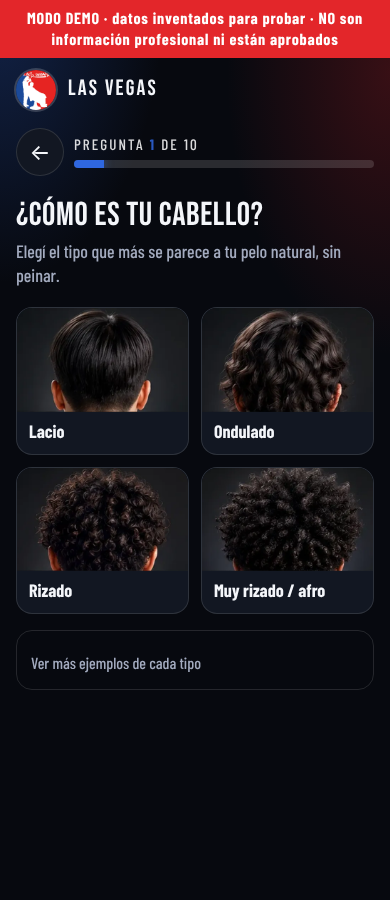
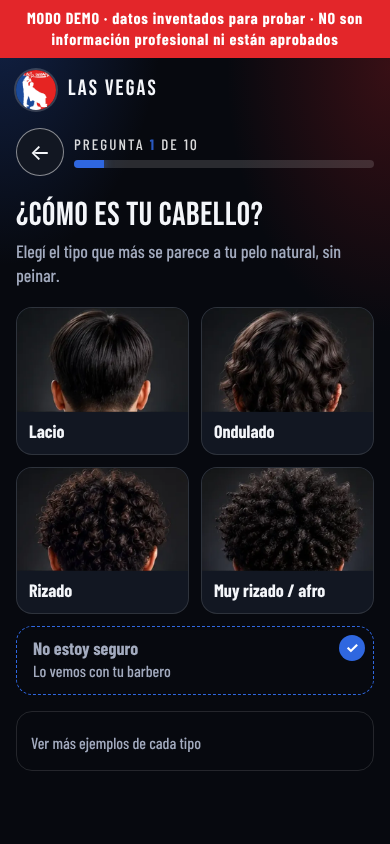
Asesor: opción «No estoy seguro» en tipo de cabello
Usa el valor 'no_se' que el motor ya trata como sin preferencia (no suma ni resta).
Nueva prueba: elegirla da las mismas recomendaciones que no responder.

Claude-Session: https://claude.ai/code/session_015zouidgxYKpqq3seUzvvSV

diff --git a/asesor/app.js b/asesor/app.js
@@ -53,11 +53,11 @@ function pregunta() {
     return p.visual && o.v !== "no_se" ? esquema(p.visual, o.v) : "";
   };
   const hayEsq = p.visual && p.opciones.some(o => o.v !== "no_se");
-  const conFotos = p.opciones.every(o => manifiesto[p.id + ":" + o.v]);
+  const conFotos = p.opciones.every(o => o.v === "no_se" || manifiesto[p.id + ":" + o.v]);
   // Variantes de referencia (opcionales, no son respuestas): solo para la pregunta de tipo de cabello.
   const variantes = p.id === "pelo" && conFotos ? `<details class="variantes"><summary>Ver más ejemplos de cada tipo</summary>
       <p class="nota-esq">Imágenes ilustrativas generadas con IA, solo de referencia. Elegí arriba el tipo que más se parezca.</p>
-      ${p.opciones.map((o, i) => `<div class="var-fila"><b>${esc(o.t)}</b><div class="var-fotos">${"abcd".split("").map(l => `<img src="assets/opciones/pelo/${i + 1}${l}.webp" alt="" loading="lazy" decoding="async" width="480" height="291">`).join("")}</div></div>`).join("")}</details>` : "";
+      ${p.opciones.filter(o => o.v !== "no_se").map((o, i) => `<div class="var-fila"><b>${esc(o.t)}</b><div class="var-fotos">${"abcd".split("").map(l => `<img src="assets/opciones/pelo/${i + 1}${l}.webp" alt="" loading="lazy" decoding="async" width="480" height="291">`).join("")}</div></div>`).join("")}</details>` : "";
   montar(`<div class="cabecera"><button class="atras" id="atras" aria-label="${paso || editando ? "Volver" : "Volver al inicio"}">←</button>
       <div class="prog"><small id="pp" aria-live="polite">Pregunta <b>${paso + 1}</b> de ${vis.length}</small><div class="bar" role="progressbar" aria-label="Progreso" aria-valuemin="1" aria-valuemax="${vis.length}" aria-valuenow="${paso + 1}"><i style="width:${Math.round(100 * (paso + 1) / vis.length)}%"></i></div></div></div>
     <div class="pregunta"><h2 id="q">${esc(p.titulo)}</h2>${p.ayuda ? `<p class="ayuda">${esc(p.ayuda)}</p>` : ""}

diff --git a/asesor/engine.js b/asesor/engine.js
@@ -6,7 +6,7 @@ const NS = "no_se";
 
 export const PREGUNTAS = [
   { id: "pelo", titulo: "¿Cómo es tu cabello?", campo: "pelos", ayuda: "Elegí el tipo que más se parece a tu pelo natural, sin peinar.", opciones: [
-    { v: "lacio", t: "Lacio" }, { v: "ondulado", t: "Ondulado" }, { v: "rizado", t: "Rizado" }, { v: "muy_rizado", t: "Muy rizado / afro" }] },
+    { v: "lacio", t: "Lacio" }, { v: "ondulado", t: "Ondulado" }, { v: "rizado", t: "Rizado" }, { v: "muy_rizado", t: "Muy rizado / afro" }, { v: NS, t: "No estoy seguro", d: "Lo vemos con tu barbero" }] },
   { id: "largo", titulo: "¿Qué largo tenés actualmente?", campo: "largos", ayuda: "Elegí la imagen que más se parece al largo de tu pelo hoy. Las medidas son orientativas.", opciones: [
     { v: "muy_corto", t: "Muy corto", d: "aprox. 0 a 2 cm" }, { v: "corto", t: "Corto", d: "aprox. 2 a 5 cm" }, { v: "medio", t: "Medio", d: "aprox. 5 a 12 cm" }, { v: "largo", t: "Largo", d: "más de 12 cm" }] },
   { id: "estilo", titulo: "¿Qué estilo buscás?", campo: "estilos", ayuda: "Pensá en cómo querés verte todos los días.", opciones: [

diff --git a/asesor/asesor.css b/asesor/asesor.css
@@ -146,3 +146,4 @@ blockquote{quotes:none}
 .prog small{color:var(--fg,#fff);opacity:.85}.prog small b{color:var(--blue)}
 .bar{height:8px;background:rgba(255,255,255,.14);border-radius:4px}.bar i{min-width:8px;box-shadow:0 0 10px color-mix(in srgb,var(--blue) 60%,transparent)}
 @media(min-width:720px){.opts.con-fotos{grid-template-columns:repeat(4,1fr)}.opts.con-fotos .opt b{font-size:17px}}
+.opts.con-fotos .opt.ns{grid-column:1/-1;flex-direction:row;align-items:center;padding:12px 16px}.opts.con-fotos .opt.ns .tx{padding:0}
